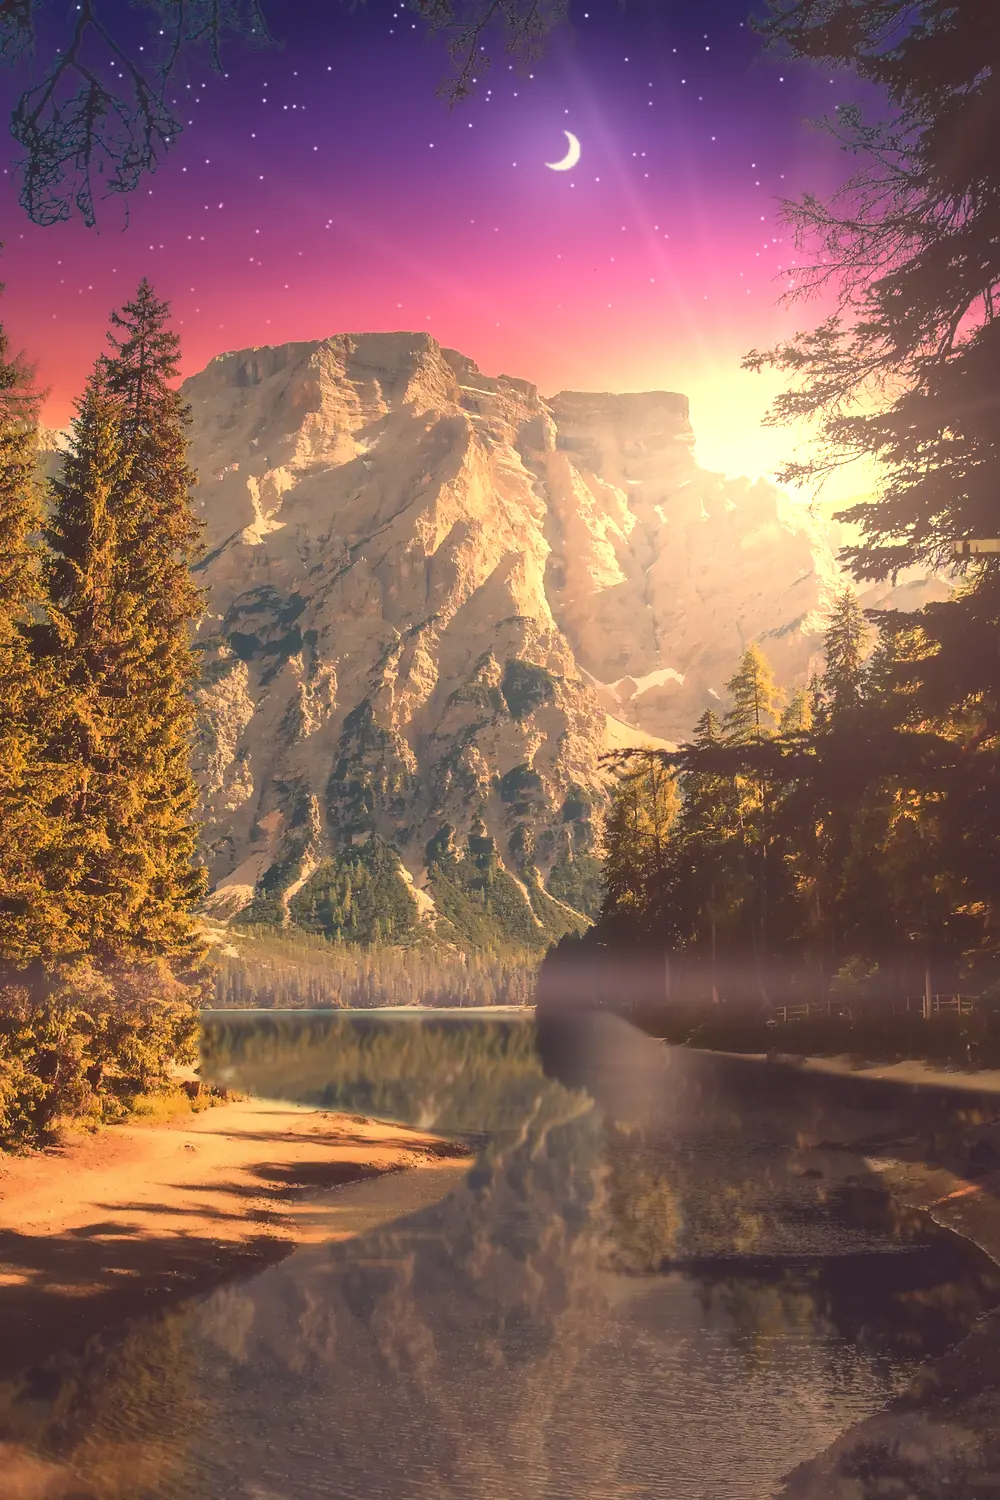
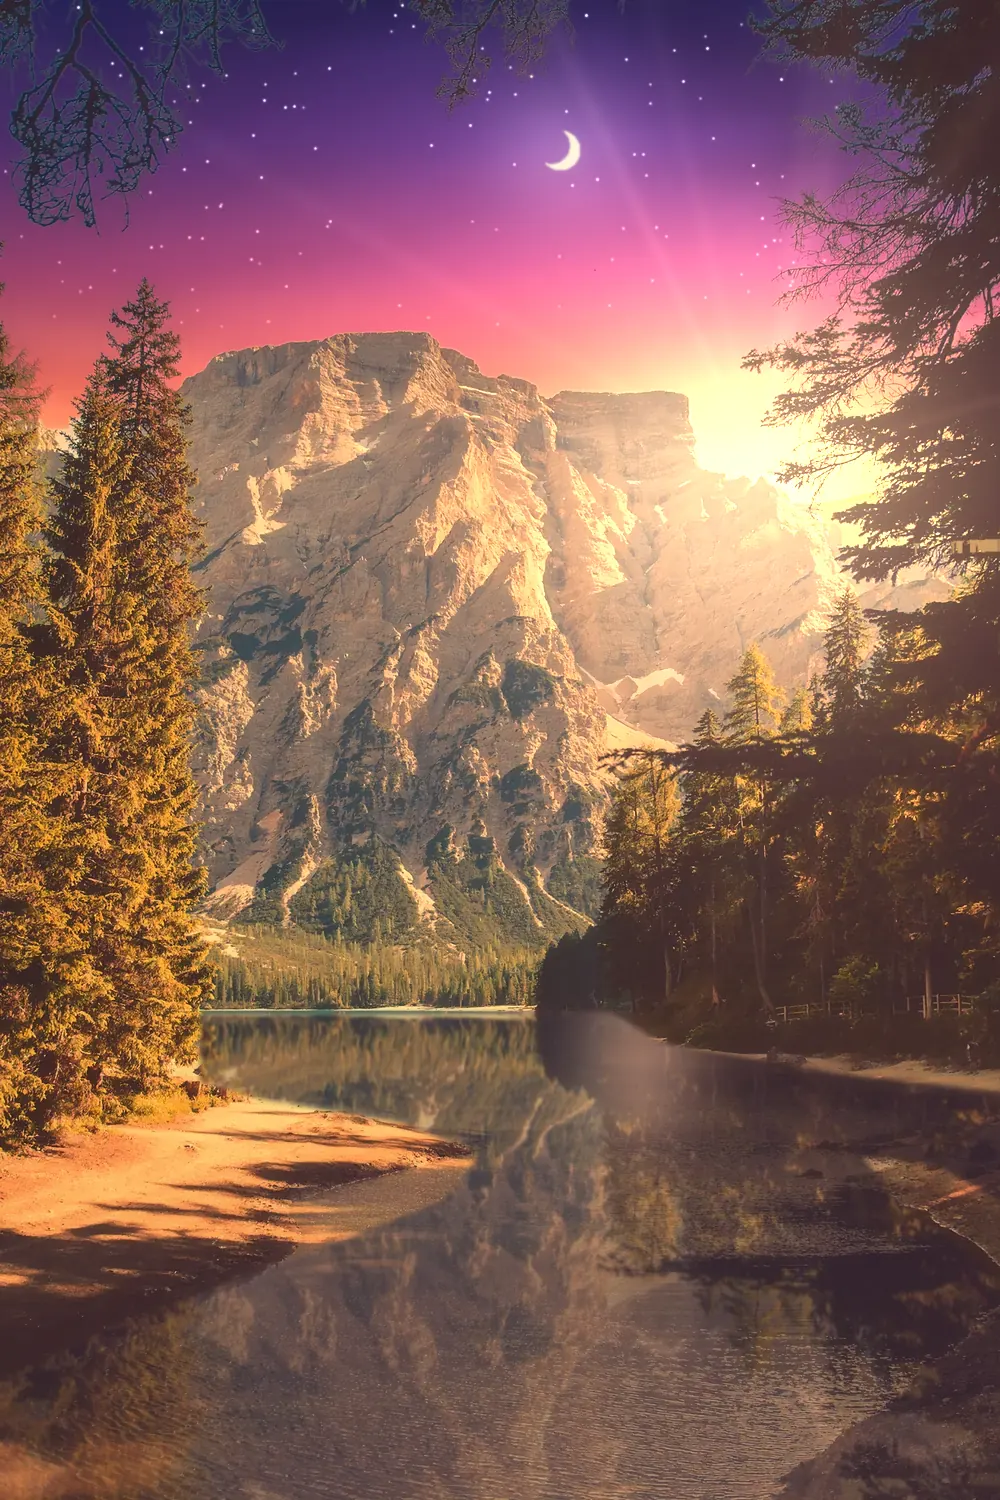
v22: fix fantasy scene, brighter grass, section entrance animations

Changed region(s): [[0.0, 0.6133, 0.93, 0.7053]]

diff --git a/index.html b/index.html
@@ -722,6 +722,18 @@ button:active:not(:disabled),[role="button"]:active,[role="switch"]:active,.scp:
 .qm-tag{border:1.5px solid var(--border2);background:var(--card);color:var(--text);border-radius:999px;padding:8px 13px;font:inherit;font-size:12.5px;cursor:pointer;min-height:38px}
 .qm-tag[aria-pressed="true"]{border-color:var(--primary);background:rgba(43,184,154,.14);font-weight:700}
 .qm-tag:focus-visible{outline:3px solid var(--primary);outline-offset:2px}
+/* section entrance, like Home */
+.screen.active:not(#sc-home) > :not(.grid2):not(.grid3):not(script):not(style),
+.screen.active:not(#sc-home) > .grid2 > *,
+.screen.active:not(#sc-home) > .grid3 > *{animation:fadeUp .45s ease both}
+.screen.active:not(#sc-home) > :nth-child(2),.screen.active:not(#sc-home) > .grid2 > :nth-child(2),.screen.active:not(#sc-home) > .grid3 > :nth-child(2){animation-delay:.07s}
+.screen.active:not(#sc-home) > :nth-child(3),.screen.active:not(#sc-home) > .grid3 > :nth-child(3){animation-delay:.14s}
+.screen.active:not(#sc-home) > :nth-child(4){animation-delay:.2s}
+.screen.active:not(#sc-home) > :nth-child(5){animation-delay:.26s}
+.screen.active:not(#sc-home) > :nth-child(n+6){animation-delay:.32s}
+@media (prefers-reduced-motion:reduce){
+  .screen.active > *,.screen.active > .grid2 > *,.screen.active > .grid3 > *{animation:none!important}
+}
 </style>
 </head>
 <body>
@@ -795,7 +807,7 @@ function build(){
   if(land){
     PW=Math.max(W,H*1.5); PH=PW/1.5; PX=(W-PW)/2;
     // put the far shore a little above the grass, so the water shows
-    PT=Math.max(H-PH,Math.min(0,(GT-210)-PH*.52)); SH=PT+PH*.52;
+    PT=Math.max(H-PH,Math.min(0,(GT-130)-PH*.52)); SH=PT+PH*.52;
     GX=PX+PW*.448; GY=PT+PH*.41;
   }else{
     PW=Math.max(W,H*2/3); PH=PW*1.5; PX=(W-PW)/2;
@@ -806,17 +818,7 @@ function build(){
   el('image',{id:'ls-p1',href:SRCP,x:f(PX),y:f(PT),width:f(PW),height:f(PH),preserveAspectRatio:'none'},defs);
   el('use',{href:'#ls-p1'},svg);
   el('ellipse',{'class':'glowp',cx:f(GX),cy:f(GY),rx:f(PW*(land?.3:.42)),ry:f(PH*(land?.18:.16)),fill:rgrad(defs,[[0,'#FFE2A0',.5],[.5,'#FFB070',.2],[1,'#FFB070',0]]),style:'mix-blend-mode:screen'},svg);
-  if(!reduce){
-    var wy=SH+8, wh=Math.min(PT+PH,GT+60)-wy;
-    var fl=el('filter',{id:'ls-rip',filterUnits:'userSpaceOnUse',x:0,y:f(wy),width:W,height:f(wh),'color-interpolation-filters':'sRGB'},defs);
-    var tb=el('feTurbulence',{type:'fractalNoise',baseFrequency:'0.004 0.05',numOctaves:2,seed:7,result:'n'},fl);
-    el('animate',{attributeName:'baseFrequency',dur:'16s',values:'0.002 0.06;0.003 0.09;0.002 0.06',repeatCount:'indefinite'},tb);
-    el('feDisplacementMap',{'in':'SourceGraphic',in2:'n',scale:f(PW/650),xChannelSelector:'R',yChannelSelector:'G'},fl);
-    var wm=el('mask',{id:'ls-wmask',maskUnits:'userSpaceOnUse',x:f(PX),y:f(PT),width:f(PW),height:f(PH)},defs);
-    el('image',{href:land?WM2:WM1,x:f(PX),y:f(PT),width:f(PW),height:f(PH),preserveAspectRatio:'none'},wm);
-    var wg=el('g',{mask:'url(#ls-wmask)'},svg), wf=el('g',{filter:'url(#ls-rip)'},wg);
-    el('use',{href:'#ls-p1'},wf);
-  }
+  // The lake is a still mirror. No animated shimmer (v22).
   var nz=noise(5);
   function edge(x,lift){return GT+34-lift-26*Math.sin(x/W*3.6+.5)-18*nz(x*.012);}
   function bladeMask(id,lift,seed){
@@ -831,13 +833,15 @@ function build(){
   function grass(maskId,lift,flip,shade,dur){
     var g=el('g',{mask:'url(#'+maskId+')'},svg), s=el('g',{'class':'gsway'},g); s.style.animationDuration=dur+'s';
     el('image',{href:G2,x:f((W-IW)/2),y:f(H-IH-lift*.5),width:f(IW),height:f(IH),preserveAspectRatio:'none',transform:flip?'translate('+W+' 0) scale(-1 1)':''},s);
-    el('rect',{x:-40,y:f(GT-140),width:W+80,height:f(GH+150),fill:lgrad(defs,[[0,'#05140E',shade],[.35,'#05140E',shade*.55],[1,'#030B08',Math.min(.92,shade+.12)]],0,GT-60,0,H)},s);
-    el('rect',{x:-40,y:f(GT-140),width:W+80,height:f(GH+150),fill:lgrad(defs,[[0,'#FFC070',.5],[1,'#FFC070',0]],0,GT-70-lift,0,GT+50-lift),style:'mix-blend-mode:soft-light'},s);
+    el('rect',{x:-40,y:f(GT-140),width:W+80,height:f(GH+150),fill:lgrad(defs,[[0,'#05140E',shade],[.35,'#05140E',shade*.6],[1,'#030B08',Math.min(.92,shade+.16)]],0,GT-60,0,H)},s);
+    // dusk light: warm the greens towards amber so the grass matches the sky
+    el('rect',{x:-40,y:f(GT-140),width:W+80,height:f(GH+150),fill:'#E8B888',opacity:.16,style:'mix-blend-mode:multiply'},s);
+    el('rect',{x:-40,y:f(GT-140),width:W+80,height:f(GH+150),fill:lgrad(defs,[[0,'#FFD27A',.7],[1,'#FFD27A',0]],0,GT-70-lift,0,GT+70-lift),style:'mix-blend-mode:soft-light'},s);
   }
   bladeMask('ls-m1',30,11); bladeMask('ls-m2',0,29);
   var sh='M-20 '+f(edge(-20,30)); for(x=-20;x<=W+20;x+=12)sh+='L'+f(x)+' '+f(edge(x,30)-4);
   var bl=el('filter',{id:'ls-b6',x:'-40%',y:'-80%',width:'180%',height:'260%'},defs); el('feGaussianBlur',{stdDeviation:6},bl);
-  el('path',{d:sh,fill:'none',stroke:'#041015','stroke-width':16,opacity:.4,filter:'url(#ls-b6)'},svg);
+  el('path',{d:sh,fill:'none',stroke:'#03080C','stroke-width':26,opacity:.62,filter:'url(#ls-b6)'},svg);
   grass('ls-m1',30,true,.3,7);
   grass('ls-m2',0,false,.08,5.5);
   var ff=el('g',{},svg), fglow=rgrad(defs,[[0,'#FFFBD0',1],[.3,'#F9E27A',.7],[1,'#F9E27A',0]]);
@@ -1653,7 +1657,7 @@ This is a screening result, not a diagnosis. Please discuss it with a qualified 
 <p style="font-size:12px;color:var(--muted)">The sunset loading scene uses photos by Pietro De Grandi and Margo Evardson on Unsplash.</p>
 <div class="about-acts"><button class="btn-g" onclick="go('team')" style="padding:10px 18px;font-size:13px">Meet the team</button></div>
 </div>
-<div class="about-ver">LENA v1.0 · build 21 · IIUM KICT</div>
+<div class="about-ver">LENA v1.0 · build 22 · IIUM KICT</div>
 </div>
 <div class="sp"></div>
 </div>

diff --git a/sw.js b/sw.js
@@ -29,7 +29,7 @@
    previous build. This is the one way a service worker commonly goes wrong.
    ────────────────────────────────────────────────────────────────────── */
 
-const CACHE_VERSION = 'v21';
+const CACHE_VERSION = 'v22';
 const CACHE = 'lena-' + CACHE_VERSION;
 
 // Everything needed for a cold, offline start.
